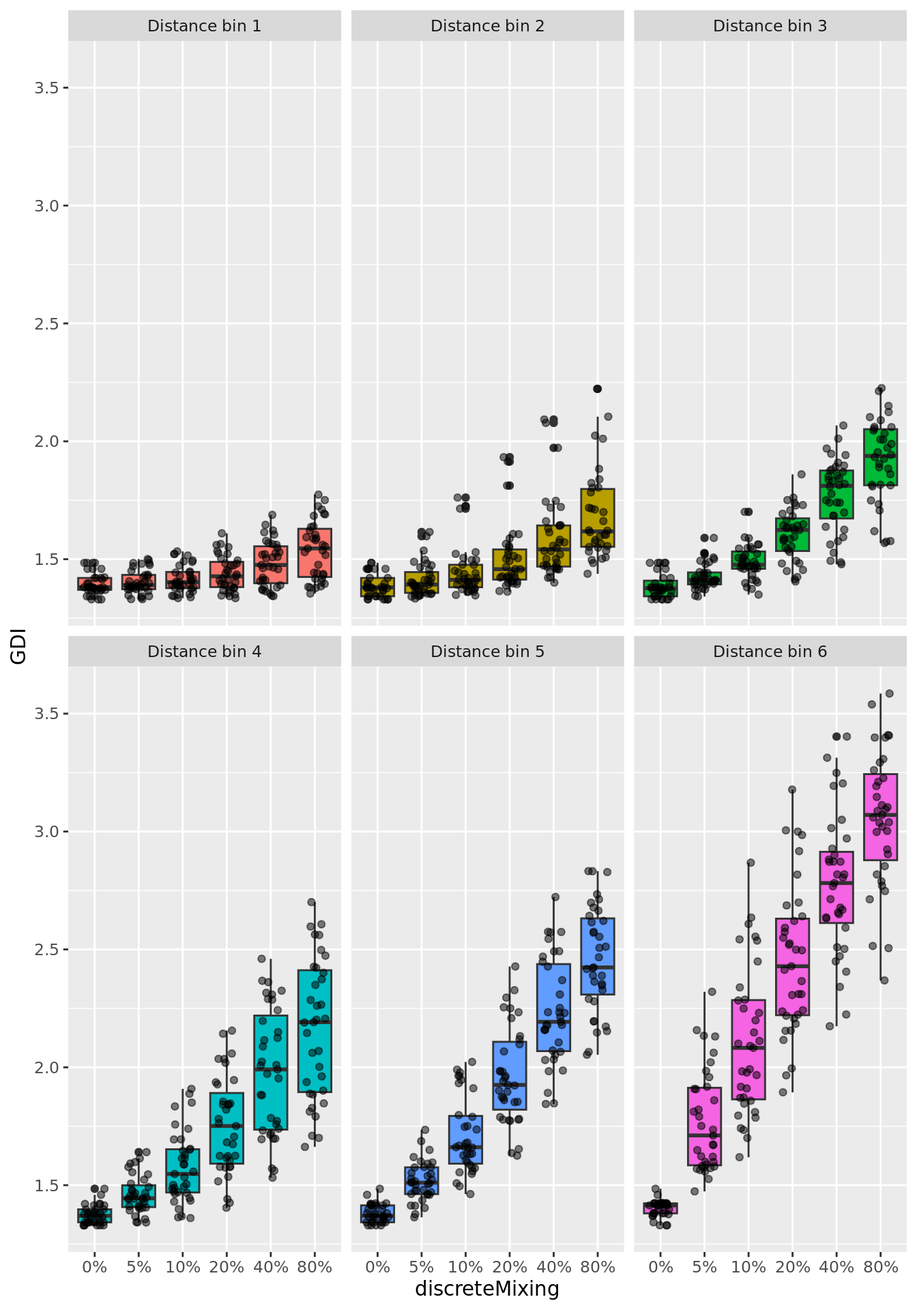
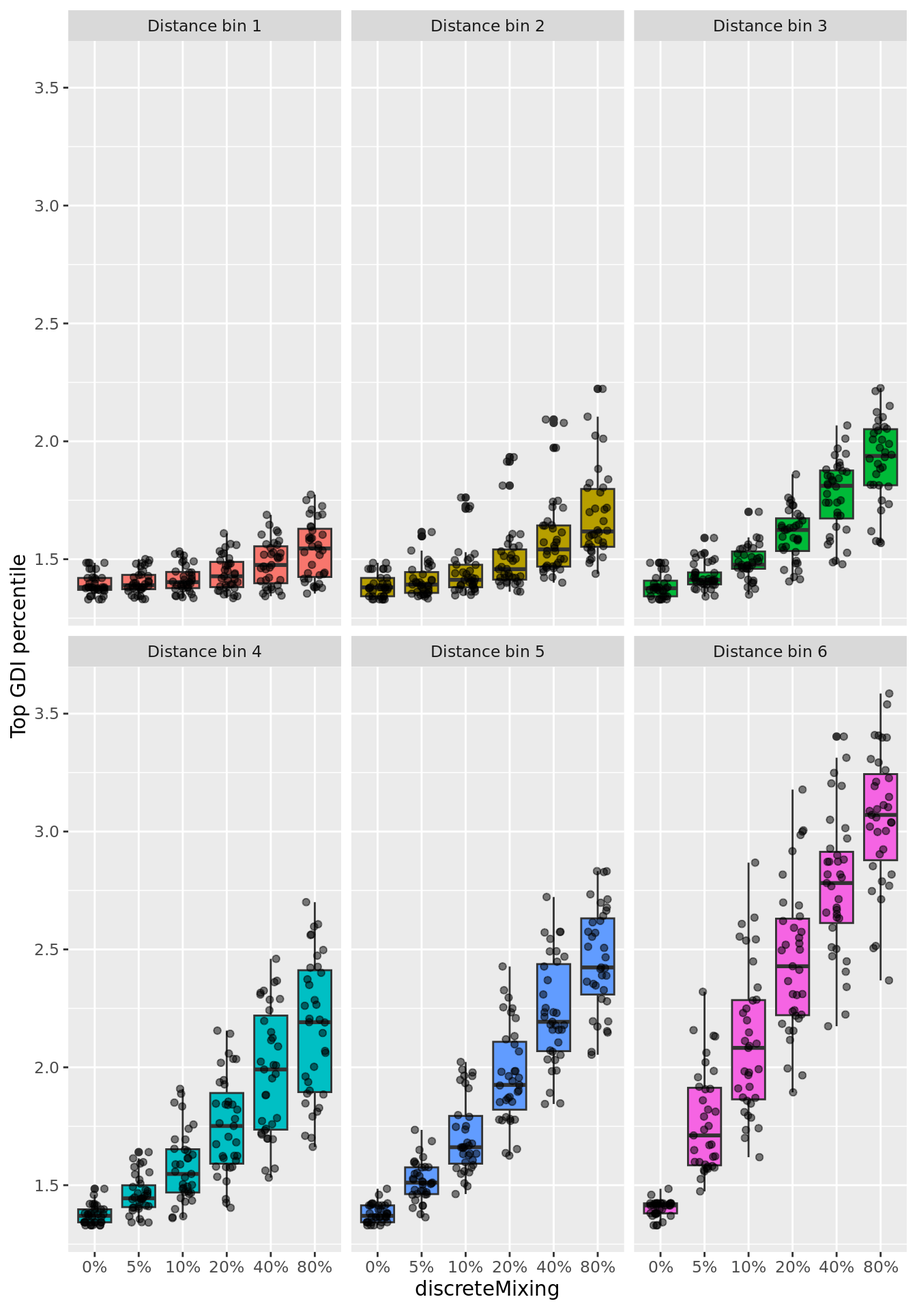
Built site for gh-pages

diff --git a/GDI_Increment_From_Mixing.html b/GDI_Increment_From_Mixing.html
@@ -7,7 +7,7 @@
 <meta name="viewport" content="width=device-width, initial-scale=1.0, user-scalable=yes">
 
 <meta name="author" content="Marco Fantozzi">
-<meta name="dcterms.date" content="2024-01-24">
+<meta name="dcterms.date" content="2024-03-22">
 
 <title>COTAN Datasets analysis - GDI Increment From Mixing</title>
 <style>
@@ -470,7 +470,7 @@ pre > code.sourceCode > span > a:first-child::before { text-decoration: underlin
     <div>
     <div class="quarto-title-meta-heading">Published</div>
     <div class="quarto-title-meta-contents">
-      <p class="date">January 24, 2024</p>
+      <p class="date">March 22, 2024</p>
     </div>
   </div>
   
@@ -540,10 +540,11 @@ pre > code.sourceCode > span > a:first-child::before { text-decoration: underlin
 <span id="cb5-7"><a href="#cb5-7" aria-hidden="true" tabindex="-1"></a>D2IPlot <span class="ot">&lt;-</span> <span class="fu">ggplot</span>(<span class="fu">cbind</span>(resMix40, distDF),</span>
 <span id="cb5-8"><a href="#cb5-8" aria-hidden="true" tabindex="-1"></a>                  <span class="fu">aes</span>(<span class="at">x=</span>Distance, <span class="at">y=</span>GDIIncrement)) <span class="sc">+</span></span>
 <span id="cb5-9"><a href="#cb5-9" aria-hidden="true" tabindex="-1"></a>             <span class="fu">geom_point</span>() <span class="sc">+</span></span>
-<span id="cb5-10"><a href="#cb5-10" aria-hidden="true" tabindex="-1"></a>             <span class="fu">geom_smooth</span>(<span class="at">method=</span>lm, <span class="at">formula =</span> y <span class="sc">~</span> x) </span>
-<span id="cb5-11"><a href="#cb5-11" aria-hidden="true" tabindex="-1"></a>           <span class="co"># +  xlim(0, 1.5) + ylim(0, 1.5) + coord_fixed()</span></span>
-<span id="cb5-12"><a href="#cb5-12" aria-hidden="true" tabindex="-1"></a></span>
-<span id="cb5-13"><a href="#cb5-13" aria-hidden="true" tabindex="-1"></a><span class="fu">plot</span>(D2IPlot)</span></code><button title="Copy to Clipboard" class="code-copy-button"><i class="bi"></i></button></pre></div>
+<span id="cb5-10"><a href="#cb5-10" aria-hidden="true" tabindex="-1"></a>             <span class="fu">geom_smooth</span>(<span class="at">method=</span>lm, <span class="at">formula =</span> y <span class="sc">~</span> x)<span class="sc">+</span></span>
+<span id="cb5-11"><a href="#cb5-11" aria-hidden="true" tabindex="-1"></a>             <span class="fu">ylab</span>(<span class="st">"Top GDI percentile Increment"</span>) </span>
+<span id="cb5-12"><a href="#cb5-12" aria-hidden="true" tabindex="-1"></a>           <span class="co"># +  xlim(0, 1.5) + ylim(0, 1.5) + coord_fixed()</span></span>
+<span id="cb5-13"><a href="#cb5-13" aria-hidden="true" tabindex="-1"></a></span>
+<span id="cb5-14"><a href="#cb5-14" aria-hidden="true" tabindex="-1"></a><span class="fu">plot</span>(D2IPlot)</span></code><button title="Copy to Clipboard" class="code-copy-button"><i class="bi"></i></button></pre></div>
 <div class="cell-output-display">
 <p><img src="GDI_Increment_From_Mixing_files/figure-html/unnamed-chunk-4-1.png" class="img-fluid" width="672"></p>
 </div>
@@ -578,17 +579,19 @@ pre > code.sourceCode > span > a:first-child::before { text-decoration: underlin
 <div class="sourceCode cell-code" id="cb10"><pre class="sourceCode r code-with-copy"><code class="sourceCode r"><span id="cb10-1"><a href="#cb10-1" aria-hidden="true" tabindex="-1"></a>IScPlot <span class="ot">&lt;-</span> <span class="fu">ggplot</span>(allRes, <span class="fu">aes</span>(<span class="at">x=</span>MixingFraction, <span class="at">y=</span>GDIIncrement, <span class="at">color=</span>Distance,)) <span class="sc">+</span></span>
 <span id="cb10-2"><a href="#cb10-2" aria-hidden="true" tabindex="-1"></a>  <span class="fu">geom_point</span>() <span class="sc">+</span></span>
 <span id="cb10-3"><a href="#cb10-3" aria-hidden="true" tabindex="-1"></a>  <span class="fu">scale_color_continuous</span>(<span class="at">type =</span> <span class="st">"viridis"</span>) <span class="sc">+</span></span>
-<span id="cb10-4"><a href="#cb10-4" aria-hidden="true" tabindex="-1"></a>  <span class="fu">scale_x_log10</span>()</span>
-<span id="cb10-5"><a href="#cb10-5" aria-hidden="true" tabindex="-1"></a></span>
-<span id="cb10-6"><a href="#cb10-6" aria-hidden="true" tabindex="-1"></a><span class="fu">plot</span>(IScPlot)</span></code><button title="Copy to Clipboard" class="code-copy-button"><i class="bi"></i></button></pre></div>
+<span id="cb10-4"><a href="#cb10-4" aria-hidden="true" tabindex="-1"></a>  <span class="fu">scale_x_log10</span>()<span class="sc">+</span></span>
+<span id="cb10-5"><a href="#cb10-5" aria-hidden="true" tabindex="-1"></a>             <span class="fu">ylab</span>(<span class="st">"Top GDI percentile Increment"</span>) </span>
+<span id="cb10-6"><a href="#cb10-6" aria-hidden="true" tabindex="-1"></a></span>
+<span id="cb10-7"><a href="#cb10-7" aria-hidden="true" tabindex="-1"></a><span class="fu">plot</span>(IScPlot)</span></code><button title="Copy to Clipboard" class="code-copy-button"><i class="bi"></i></button></pre></div>
 <div class="cell-output-display">
 <p><img src="GDI_Increment_From_Mixing_files/figure-html/unnamed-chunk-7-1.png" class="img-fluid" width="672"></p>
 </div>
 <div class="sourceCode cell-code" id="cb11"><pre class="sourceCode r code-with-copy"><code class="sourceCode r"><span id="cb11-1"><a href="#cb11-1" aria-hidden="true" tabindex="-1"></a>GScPlot <span class="ot">&lt;-</span> <span class="fu">ggplot</span>(allResWithBase, <span class="fu">aes</span>(<span class="at">x=</span>MixingFraction, <span class="at">y=</span>GDI, <span class="at">color=</span>Distance,)) <span class="sc">+</span></span>
 <span id="cb11-2"><a href="#cb11-2" aria-hidden="true" tabindex="-1"></a>  <span class="fu">geom_point</span>() <span class="sc">+</span></span>
-<span id="cb11-3"><a href="#cb11-3" aria-hidden="true" tabindex="-1"></a>  <span class="fu">scale_color_continuous</span>(<span class="at">type =</span> <span class="st">"viridis"</span>)</span>
-<span id="cb11-4"><a href="#cb11-4" aria-hidden="true" tabindex="-1"></a></span>
-<span id="cb11-5"><a href="#cb11-5" aria-hidden="true" tabindex="-1"></a><span class="fu">plot</span>(GScPlot)</span></code><button title="Copy to Clipboard" class="code-copy-button"><i class="bi"></i></button></pre></div>
+<span id="cb11-3"><a href="#cb11-3" aria-hidden="true" tabindex="-1"></a>  <span class="fu">scale_color_continuous</span>(<span class="at">type =</span> <span class="st">"viridis"</span>)<span class="sc">+</span></span>
+<span id="cb11-4"><a href="#cb11-4" aria-hidden="true" tabindex="-1"></a>             <span class="fu">ylab</span>(<span class="st">"Top GDI percentile"</span>) </span>
+<span id="cb11-5"><a href="#cb11-5" aria-hidden="true" tabindex="-1"></a></span>
+<span id="cb11-6"><a href="#cb11-6" aria-hidden="true" tabindex="-1"></a><span class="fu">plot</span>(GScPlot)</span></code><button title="Copy to Clipboard" class="code-copy-button"><i class="bi"></i></button></pre></div>
 <div class="cell-output-display">
 <p><img src="GDI_Increment_From_Mixing_files/figure-html/unnamed-chunk-7-2.png" class="img-fluid" width="672"></p>
 </div>
@@ -618,9 +621,10 @@ pre > code.sourceCode > span > a:first-child::before { text-decoration: underlin
 <span id="cb13-11"><a href="#cb13-11" aria-hidden="true" tabindex="-1"></a>  <span class="fu">geom_path</span>(<span class="fu">aes</span>(<span class="at">group =</span> ClusterPair)) <span class="sc">+</span></span>
 <span id="cb13-12"><a href="#cb13-12" aria-hidden="true" tabindex="-1"></a>  <span class="fu">theme</span>(<span class="at">legend.position =</span> <span class="st">"none"</span>) <span class="sc">+</span></span>
 <span id="cb13-13"><a href="#cb13-13" aria-hidden="true" tabindex="-1"></a>  <span class="co">#scale_x_log10() + </span></span>
-<span id="cb13-14"><a href="#cb13-14" aria-hidden="true" tabindex="-1"></a>  <span class="fu">scale_colour_stepsn</span>(<span class="at">colours =</span> <span class="fu">hcl.colors</span>(<span class="dv">6</span>, <span class="at">palette =</span> <span class="st">"Dark 2"</span>)[<span class="dv">6</span><span class="sc">:</span><span class="dv">1</span>])</span>
-<span id="cb13-15"><a href="#cb13-15" aria-hidden="true" tabindex="-1"></a></span>
-<span id="cb13-16"><a href="#cb13-16" aria-hidden="true" tabindex="-1"></a><span class="fu">plot</span>(ILinesPLot)</span></code><button title="Copy to Clipboard" class="code-copy-button"><i class="bi"></i></button></pre></div>
+<span id="cb13-14"><a href="#cb13-14" aria-hidden="true" tabindex="-1"></a>  <span class="fu">scale_colour_stepsn</span>(<span class="at">colours =</span> <span class="fu">hcl.colors</span>(<span class="dv">6</span>, <span class="at">palette =</span> <span class="st">"Dark 2"</span>)[<span class="dv">6</span><span class="sc">:</span><span class="dv">1</span>])<span class="sc">+</span></span>
+<span id="cb13-15"><a href="#cb13-15" aria-hidden="true" tabindex="-1"></a>             <span class="fu">ylab</span>(<span class="st">"Top GDI percentile Increment"</span>) </span>
+<span id="cb13-16"><a href="#cb13-16" aria-hidden="true" tabindex="-1"></a></span>
+<span id="cb13-17"><a href="#cb13-17" aria-hidden="true" tabindex="-1"></a><span class="fu">plot</span>(ILinesPLot)</span></code><button title="Copy to Clipboard" class="code-copy-button"><i class="bi"></i></button></pre></div>
 <div class="cell-output-display">
 <p><img src="GDI_Increment_From_Mixing_files/figure-html/unnamed-chunk-9-1.png" class="img-fluid" width="672"></p>
 </div>
@@ -630,12 +634,13 @@ pre > code.sourceCode > span > a:first-child::before { text-decoration: underlin
 <span id="cb14-4"><a href="#cb14-4" aria-hidden="true" tabindex="-1"></a>  <span class="fu">geom_path</span>(<span class="fu">aes</span>(<span class="at">group =</span> ClusterPair)) <span class="sc">+</span></span>
 <span id="cb14-5"><a href="#cb14-5" aria-hidden="true" tabindex="-1"></a>  <span class="fu">theme</span>(<span class="at">legend.position =</span> <span class="st">"none"</span>) <span class="sc">+</span></span>
 <span id="cb14-6"><a href="#cb14-6" aria-hidden="true" tabindex="-1"></a>  <span class="co">#scale_x_log10() + </span></span>
-<span id="cb14-7"><a href="#cb14-7" aria-hidden="true" tabindex="-1"></a>  <span class="fu">scale_colour_stepsn</span>(<span class="at">colours =</span> <span class="fu">hcl.colors</span>(<span class="dv">6</span>, <span class="at">palette =</span> <span class="st">"Dark 2"</span>)[<span class="dv">6</span><span class="sc">:</span><span class="dv">1</span>]) </span>
-<span id="cb14-8"><a href="#cb14-8" aria-hidden="true" tabindex="-1"></a><span class="co">#  geom_line(data = data.frame(cbind(MixingFraction = c(0,0.8), GDI = c(1.4,1.4))),</span></span>
-<span id="cb14-9"><a href="#cb14-9" aria-hidden="true" tabindex="-1"></a><span class="co">#            aes(x = MixingFraction, y = GDI))</span></span>
-<span id="cb14-10"><a href="#cb14-10" aria-hidden="true" tabindex="-1"></a></span>
+<span id="cb14-7"><a href="#cb14-7" aria-hidden="true" tabindex="-1"></a>  <span class="fu">scale_colour_stepsn</span>(<span class="at">colours =</span> <span class="fu">hcl.colors</span>(<span class="dv">6</span>, <span class="at">palette =</span> <span class="st">"Dark 2"</span>)[<span class="dv">6</span><span class="sc">:</span><span class="dv">1</span>]) <span class="sc">+</span></span>
+<span id="cb14-8"><a href="#cb14-8" aria-hidden="true" tabindex="-1"></a>             <span class="fu">ylab</span>(<span class="st">"Top GDI percentile"</span>) </span>
+<span id="cb14-9"><a href="#cb14-9" aria-hidden="true" tabindex="-1"></a><span class="co">#  geom_line(data = data.frame(cbind(MixingFraction = c(0,0.8), GDI = c(1.4,1.4))),</span></span>
+<span id="cb14-10"><a href="#cb14-10" aria-hidden="true" tabindex="-1"></a><span class="co">#            aes(x = MixingFraction, y = GDI))</span></span>
 <span id="cb14-11"><a href="#cb14-11" aria-hidden="true" tabindex="-1"></a></span>
-<span id="cb14-12"><a href="#cb14-12" aria-hidden="true" tabindex="-1"></a><span class="fu">plot</span>(GLinesPLot)</span></code><button title="Copy to Clipboard" class="code-copy-button"><i class="bi"></i></button></pre></div>
+<span id="cb14-12"><a href="#cb14-12" aria-hidden="true" tabindex="-1"></a></span>
+<span id="cb14-13"><a href="#cb14-13" aria-hidden="true" tabindex="-1"></a><span class="fu">plot</span>(GLinesPLot)</span></code><button title="Copy to Clipboard" class="code-copy-button"><i class="bi"></i></button></pre></div>
 <div class="cell-output-display">
 <p><img src="GDI_Increment_From_Mixing_files/figure-html/unnamed-chunk-9-2.png" class="img-fluid" width="672"></p>
 </div>
@@ -667,10 +672,11 @@ pre > code.sourceCode > span > a:first-child::before { text-decoration: underlin
 <span id="cb15-24"><a href="#cb15-24" aria-hidden="true" tabindex="-1"></a>  <span class="fu">geom_jitter</span>(<span class="at">width=</span><span class="fl">0.25</span>, <span class="at">alpha=</span><span class="fl">0.5</span>) <span class="sc">+</span></span>
 <span id="cb15-25"><a href="#cb15-25" aria-hidden="true" tabindex="-1"></a>  <span class="fu">scale_colour_stepsn</span>(<span class="at">colours =</span> <span class="fu">hcl.colors</span>(<span class="dv">6</span>, <span class="at">palette =</span> <span class="st">"Dark 2"</span>)[<span class="dv">6</span><span class="sc">:</span><span class="dv">1</span>]) <span class="sc">+</span></span>
 <span id="cb15-26"><a href="#cb15-26" aria-hidden="true" tabindex="-1"></a>  <span class="fu">facet_wrap</span>(. <span class="sc">~</span> Group, <span class="at">ncol =</span> <span class="dv">3</span>)<span class="sc">+</span></span>
-<span id="cb15-27"><a href="#cb15-27" aria-hidden="true" tabindex="-1"></a>  <span class="fu">theme</span>(<span class="at">legend.position =</span> <span class="st">"none"</span>) </span>
-<span id="cb15-28"><a href="#cb15-28" aria-hidden="true" tabindex="-1"></a></span>
+<span id="cb15-27"><a href="#cb15-27" aria-hidden="true" tabindex="-1"></a>  <span class="fu">theme</span>(<span class="at">legend.position =</span> <span class="st">"none"</span>) <span class="sc">+</span></span>
+<span id="cb15-28"><a href="#cb15-28" aria-hidden="true" tabindex="-1"></a>             <span class="fu">ylab</span>(<span class="st">"Top GDI percentile Increment"</span>) </span>
 <span id="cb15-29"><a href="#cb15-29" aria-hidden="true" tabindex="-1"></a></span>
-<span id="cb15-30"><a href="#cb15-30" aria-hidden="true" tabindex="-1"></a><span class="fu">plot</span>(IBoxPlot)</span></code><button title="Copy to Clipboard" class="code-copy-button"><i class="bi"></i></button></pre></div>
+<span id="cb15-30"><a href="#cb15-30" aria-hidden="true" tabindex="-1"></a></span>
+<span id="cb15-31"><a href="#cb15-31" aria-hidden="true" tabindex="-1"></a><span class="fu">plot</span>(IBoxPlot)</span></code><button title="Copy to Clipboard" class="code-copy-button"><i class="bi"></i></button></pre></div>
 <div class="cell-output-display">
 <p><img src="GDI_Increment_From_Mixing_files/figure-html/unnamed-chunk-10-1.png" class="img-fluid" width="672"></p>
 </div>
@@ -688,9 +694,10 @@ pre > code.sourceCode > span > a:first-child::before { text-decoration: underlin
 <span id="cb16-12"><a href="#cb16-12" aria-hidden="true" tabindex="-1"></a>  <span class="fu">geom_jitter</span>(<span class="at">width=</span><span class="fl">0.25</span>, <span class="at">alpha=</span><span class="fl">0.5</span>) <span class="sc">+</span></span>
 <span id="cb16-13"><a href="#cb16-13" aria-hidden="true" tabindex="-1"></a>  <span class="fu">scale_colour_stepsn</span>(<span class="at">colours =</span> <span class="fu">hcl.colors</span>(<span class="dv">6</span>, <span class="at">palette =</span> <span class="st">"Dark 2"</span>)[<span class="dv">6</span><span class="sc">:</span><span class="dv">1</span>]) <span class="sc">+</span></span>
 <span id="cb16-14"><a href="#cb16-14" aria-hidden="true" tabindex="-1"></a>  <span class="fu">facet_wrap</span>(. <span class="sc">~</span> Group, <span class="at">ncol =</span> <span class="dv">3</span>)<span class="sc">+</span></span>
-<span id="cb16-15"><a href="#cb16-15" aria-hidden="true" tabindex="-1"></a>  <span class="fu">theme</span>(<span class="at">legend.position =</span> <span class="st">"none"</span>) </span>
-<span id="cb16-16"><a href="#cb16-16" aria-hidden="true" tabindex="-1"></a></span>
-<span id="cb16-17"><a href="#cb16-17" aria-hidden="true" tabindex="-1"></a><span class="fu">plot</span>(GBoxPlot)</span></code><button title="Copy to Clipboard" class="code-copy-button"><i class="bi"></i></button></pre></div>
+<span id="cb16-15"><a href="#cb16-15" aria-hidden="true" tabindex="-1"></a>  <span class="fu">theme</span>(<span class="at">legend.position =</span> <span class="st">"none"</span>) <span class="sc">+</span></span>
+<span id="cb16-16"><a href="#cb16-16" aria-hidden="true" tabindex="-1"></a>             <span class="fu">ylab</span>(<span class="st">"Top GDI percentile"</span>) </span>
+<span id="cb16-17"><a href="#cb16-17" aria-hidden="true" tabindex="-1"></a></span>
+<span id="cb16-18"><a href="#cb16-18" aria-hidden="true" tabindex="-1"></a><span class="fu">plot</span>(GBoxPlot)</span></code><button title="Copy to Clipboard" class="code-copy-button"><i class="bi"></i></button></pre></div>
 <div class="cell-output-display">
 <p><img src="GDI_Increment_From_Mixing_files/figure-html/unnamed-chunk-10-2.png" class="img-fluid" width="672"></p>
 </div>
@@ -707,10 +714,11 @@ pre > code.sourceCode > span > a:first-child::before { text-decoration: underlin
 <span id="cb17-3"><a href="#cb17-3" aria-hidden="true" tabindex="-1"></a>  <span class="fu">geom_point</span>() <span class="sc">+</span></span>
 <span id="cb17-4"><a href="#cb17-4" aria-hidden="true" tabindex="-1"></a>  <span class="fu">geom_smooth</span>(<span class="at">method=</span>lm, <span class="at">formula =</span> y <span class="sc">~</span> x <span class="sc">+</span> <span class="dv">0</span>) <span class="sc">+</span></span>
 <span id="cb17-5"><a href="#cb17-5" aria-hidden="true" tabindex="-1"></a>  <span class="fu">coord_fixed</span>() <span class="sc">+</span></span>
-<span id="cb17-6"><a href="#cb17-6" aria-hidden="true" tabindex="-1"></a>  <span class="fu">xlim</span>(<span class="dv">0</span>, <span class="fl">1.5</span>) <span class="sc">+</span> <span class="fu">ylim</span>(<span class="dv">0</span>, <span class="fl">1.5</span>)</span>
-<span id="cb17-7"><a href="#cb17-7" aria-hidden="true" tabindex="-1"></a>  <span class="co">#scale_x_log10() + scale_y_log10() </span></span>
-<span id="cb17-8"><a href="#cb17-8" aria-hidden="true" tabindex="-1"></a></span>
-<span id="cb17-9"><a href="#cb17-9" aria-hidden="true" tabindex="-1"></a><span class="fu">plot</span>(pg)</span></code><button title="Copy to Clipboard" class="code-copy-button"><i class="bi"></i></button></pre></div>
+<span id="cb17-6"><a href="#cb17-6" aria-hidden="true" tabindex="-1"></a>  <span class="fu">xlim</span>(<span class="dv">0</span>, <span class="fl">1.5</span>) <span class="sc">+</span> <span class="fu">ylim</span>(<span class="dv">0</span>, <span class="fl">1.5</span>)<span class="sc">+</span></span>
+<span id="cb17-7"><a href="#cb17-7" aria-hidden="true" tabindex="-1"></a>             <span class="fu">ylab</span>(<span class="st">"Top GDI percentile Increment"</span>) </span>
+<span id="cb17-8"><a href="#cb17-8" aria-hidden="true" tabindex="-1"></a>  <span class="co">#scale_x_log10() + scale_y_log10() </span></span>
+<span id="cb17-9"><a href="#cb17-9" aria-hidden="true" tabindex="-1"></a></span>
+<span id="cb17-10"><a href="#cb17-10" aria-hidden="true" tabindex="-1"></a><span class="fu">plot</span>(pg)</span></code><button title="Copy to Clipboard" class="code-copy-button"><i class="bi"></i></button></pre></div>
 <div class="cell-output-display">
 <p><img src="GDI_Increment_From_Mixing_files/figure-html/unnamed-chunk-12-1.png" class="img-fluid" width="672"></p>
 </div>
@@ -742,19 +750,19 @@ attached base packages:
 other attached packages:
  [1] lubridate_1.9.2    forcats_1.0.0      stringr_1.5.0      dplyr_1.1.2       
  [5] purrr_1.0.1        readr_2.1.4        tibble_3.2.1       tidyverse_2.0.0   
- [9] tidyr_1.3.0        parallelDist_0.2.6 data.table_1.14.8  zeallot_0.1.0     
-[13] ggplot2_3.4.2      scales_1.3.0       rlang_1.1.1        assertthat_0.2.1  
+ [9] tidyr_1.3.0        parallelDist_0.2.6 data.table_1.15.0  zeallot_0.1.0     
+[13] ggplot2_3.5.0      scales_1.3.0       rlang_1.1.1        assertthat_0.2.1  
 
 loaded via a namespace (and not attached):
  [1] utf8_1.2.3         generics_0.1.3     lattice_0.22-5     stringi_1.8.1     
  [5] hms_1.1.3          digest_0.6.33      magrittr_2.0.3     evaluate_0.21     
- [9] grid_4.3.2         timechange_0.2.0   fastmap_1.1.1      Matrix_1.6-3      
+ [9] grid_4.3.2         timechange_0.3.0   fastmap_1.1.1      Matrix_1.6-3      
 [13] jsonlite_1.8.7     mgcv_1.9-1         fansi_1.0.4        viridisLite_0.4.2 
-[17] cli_3.6.1          munsell_0.5.0      splines_4.3.2      withr_2.5.0       
+[17] cli_3.6.1          munsell_0.5.0      splines_4.3.2      withr_3.0.0       
 [21] yaml_2.3.7         tools_4.3.2        tzdb_0.4.0         colorspace_2.1-0  
 [25] vctrs_0.6.3        R6_2.5.1           lifecycle_1.0.3    htmlwidgets_1.6.2 
 [29] pkgconfig_2.0.3    RcppParallel_5.1.7 pillar_1.9.0       gtable_0.3.3      
-[33] glue_1.6.2         Rcpp_1.0.11        xfun_0.39          tidyselect_1.2.0  
+[33] glue_1.7.0         Rcpp_1.0.11        xfun_0.39          tidyselect_1.2.0  
 [37] rstudioapi_0.15.0  knitr_1.43         farver_2.1.1       htmltools_0.5.7   
 [41] nlme_3.1-163       labeling_0.4.2     rmarkdown_2.24     compiler_4.3.2    </code></pre>
 </div>

diff --git a/generalCoexAssess.html b/generalCoexAssess.html
@@ -484,19 +484,21 @@ pre > code.sourceCode > span > a:first-child::before { text-decoration: underlin
 <span id="cb1-14"><a href="#cb1-14" aria-hidden="true" tabindex="-1"></a>colors.methods <span class="ot">&lt;-</span> <span class="fu">c</span>(<span class="st">"#8856A7"</span>,<span class="st">"#ed5537"</span>,<span class="st">"#95ba8f"</span>,<span class="st">"#EDF8FB"</span>,<span class="st">"#B3CDE3"</span> )</span></code><button title="Copy to Clipboard" class="code-copy-button"><i class="bi"></i></button></pre></div>
 </div>
 <div class="cell">
-<div class="sourceCode cell-code" id="cb2"><pre class="sourceCode r code-with-copy"><code class="sourceCode r"><span id="cb2-1"><a href="#cb2-1" aria-hidden="true" tabindex="-1"></a>genesList <span class="ot">&lt;-</span> <span class="fu">list</span>(</span>
-<span id="cb2-2"><a href="#cb2-2" aria-hidden="true" tabindex="-1"></a>  <span class="st">"NPGs"</span><span class="ot">=</span> </span>
-<span id="cb2-3"><a href="#cb2-3" aria-hidden="true" tabindex="-1"></a>    <span class="fu">c</span>(<span class="st">"Nes"</span>, <span class="st">"Vim"</span>, <span class="st">"Sox2"</span>, <span class="st">"Sox1"</span>, <span class="st">"Notch1"</span>, <span class="st">"Hes1"</span>, <span class="st">"Hes5"</span>, <span class="st">"Pax6"</span>),</span>
-<span id="cb2-4"><a href="#cb2-4" aria-hidden="true" tabindex="-1"></a>  <span class="st">"PNGs"</span><span class="ot">=</span> </span>
-<span id="cb2-5"><a href="#cb2-5" aria-hidden="true" tabindex="-1"></a>    <span class="fu">c</span>(<span class="st">"Map2"</span>, <span class="st">"Tubb3"</span>, <span class="st">"Neurod1"</span>, <span class="st">"Nefm"</span>, <span class="st">"Nefl"</span>, <span class="st">"Dcx"</span>, <span class="st">"Tbr1"</span>),</span>
-<span id="cb2-6"><a href="#cb2-6" aria-hidden="true" tabindex="-1"></a>  <span class="st">"hk"</span><span class="ot">=</span> </span>
-<span id="cb2-7"><a href="#cb2-7" aria-hidden="true" tabindex="-1"></a>    <span class="fu">c</span>(<span class="st">"Calm1"</span>, <span class="st">"Cox6b1"</span>, <span class="st">"Ppia"</span>, <span class="st">"Rpl18"</span>, <span class="st">"Cox7c"</span>, <span class="st">"Erh"</span>, <span class="st">"H3f3a"</span>,</span>
-<span id="cb2-8"><a href="#cb2-8" aria-hidden="true" tabindex="-1"></a>      <span class="st">"Taf1"</span>, <span class="st">"Taf2"</span>, <span class="st">"Gapdh"</span>, <span class="st">"Actb"</span>, <span class="st">"Golph3"</span>, <span class="st">"Zfr"</span>, <span class="st">"Sub1"</span>,</span>
-<span id="cb2-9"><a href="#cb2-9" aria-hidden="true" tabindex="-1"></a>      <span class="st">"Tars"</span>, <span class="st">"Amacr"</span>),</span>
-<span id="cb2-10"><a href="#cb2-10" aria-hidden="true" tabindex="-1"></a>  <span class="st">"layers"</span> <span class="ot">=</span> </span>
-<span id="cb2-11"><a href="#cb2-11" aria-hidden="true" tabindex="-1"></a>    <span class="fu">c</span>(<span class="st">"Reln"</span>,<span class="st">"Lhx5"</span>,<span class="st">"Cux1"</span>,<span class="st">"Satb2"</span>,<span class="st">"Tle1"</span>,<span class="st">"Mef2c"</span>,<span class="st">"Rorb"</span>,<span class="st">"Sox5"</span>,<span class="st">"Bcl11b"</span>,<span class="st">"Fezf2"</span>,<span class="st">"Foxp2"</span>,<span class="st">"Ntf3"</span>,<span class="st">"Rasgrf2"</span>,<span class="st">"Pvrl3"</span>, <span class="st">"Cux2"</span>,<span class="st">"Slc17a6"</span>, <span class="st">"Sema3c"</span>,<span class="st">"Thsd7a"</span>, <span class="st">"Sulf2"</span>, <span class="st">"Kcnk2"</span>,<span class="st">"Grik3"</span>, <span class="st">"Etv1"</span>, <span class="st">"Tle4"</span>, <span class="st">"Tmem200a"</span>, <span class="st">"Glra2"</span>, <span class="st">"Etv1"</span>,<span class="st">"Htr1f"</span>, <span class="st">"Sulf1"</span>,<span class="st">"Rxfp1"</span>, <span class="st">"Syt6"</span>) </span>
-<span id="cb2-12"><a href="#cb2-12" aria-hidden="true" tabindex="-1"></a>  <span class="co"># From https://www.science.org/doi/10.1126/science.aam8999</span></span>
-<span id="cb2-13"><a href="#cb2-13" aria-hidden="true" tabindex="-1"></a>)</span></code><button title="Copy to Clipboard" class="code-copy-button"><i class="bi"></i></button></pre></div>
+<div class="sourceCode cell-code" id="cb2"><pre class="sourceCode r code-with-copy"><code class="sourceCode r"><span id="cb2-1"><a href="#cb2-1" aria-hidden="true" tabindex="-1"></a>layer.genes <span class="ot">&lt;-</span> <span class="fu">read.csv</span>(<span class="st">"CoexData/some_layer_maerkers.csv"</span>, <span class="at">header =</span> T,<span class="at">row.names =</span> <span class="dv">1</span>)</span>
+<span id="cb2-2"><a href="#cb2-2" aria-hidden="true" tabindex="-1"></a></span>
+<span id="cb2-3"><a href="#cb2-3" aria-hidden="true" tabindex="-1"></a>genesList <span class="ot">&lt;-</span> <span class="fu">list</span>(</span>
+<span id="cb2-4"><a href="#cb2-4" aria-hidden="true" tabindex="-1"></a>  <span class="st">"NPGs"</span><span class="ot">=</span> </span>
+<span id="cb2-5"><a href="#cb2-5" aria-hidden="true" tabindex="-1"></a>    <span class="fu">c</span>(<span class="st">"Nes"</span>, <span class="st">"Vim"</span>, <span class="st">"Sox2"</span>, <span class="st">"Sox1"</span>, <span class="st">"Notch1"</span>, <span class="st">"Hes1"</span>, <span class="st">"Hes5"</span>, <span class="st">"Pax6"</span>),</span>
+<span id="cb2-6"><a href="#cb2-6" aria-hidden="true" tabindex="-1"></a>  <span class="st">"PNGs"</span><span class="ot">=</span> </span>
+<span id="cb2-7"><a href="#cb2-7" aria-hidden="true" tabindex="-1"></a>    <span class="fu">c</span>(<span class="st">"Map2"</span>, <span class="st">"Tubb3"</span>, <span class="st">"Neurod1"</span>, <span class="st">"Nefm"</span>, <span class="st">"Nefl"</span>, <span class="st">"Dcx"</span>, <span class="st">"Tbr1"</span>),</span>
+<span id="cb2-8"><a href="#cb2-8" aria-hidden="true" tabindex="-1"></a>  <span class="st">"hk"</span><span class="ot">=</span> </span>
+<span id="cb2-9"><a href="#cb2-9" aria-hidden="true" tabindex="-1"></a>    <span class="fu">c</span>(<span class="st">"Calm1"</span>, <span class="st">"Cox6b1"</span>, <span class="st">"Ppia"</span>, <span class="st">"Rpl18"</span>, <span class="st">"Cox7c"</span>, <span class="st">"Erh"</span>, <span class="st">"H3f3a"</span>,</span>
+<span id="cb2-10"><a href="#cb2-10" aria-hidden="true" tabindex="-1"></a>      <span class="st">"Taf1"</span>, <span class="st">"Taf2"</span>, <span class="st">"Gapdh"</span>, <span class="st">"Actb"</span>, <span class="st">"Golph3"</span>, <span class="st">"Zfr"</span>, <span class="st">"Sub1"</span>,</span>
+<span id="cb2-11"><a href="#cb2-11" aria-hidden="true" tabindex="-1"></a>      <span class="st">"Tars"</span>, <span class="st">"Amacr"</span>),</span>
+<span id="cb2-12"><a href="#cb2-12" aria-hidden="true" tabindex="-1"></a>  <span class="st">"layers"</span> <span class="ot">=</span> <span class="fu">unique</span>(<span class="fu">unlist</span>(<span class="fu">str_split</span>(layer.genes<span class="sc">$</span>supertype.markers.combo,<span class="at">pattern =</span> <span class="st">","</span>))) </span>
+<span id="cb2-13"><a href="#cb2-13" aria-hidden="true" tabindex="-1"></a>    <span class="co">#c("Reln","Lhx5","Cux1","Satb2","Tle1","Mef2c","Rorb","Sox5","Bcl11b","Fezf2","Foxp2","Ntf3","Rasgrf2","Pvrl3", "Cux2","Slc17a6", "Sema3c","Thsd7a", "Sulf2", "Kcnk2","Grik3", "Etv1", "Tle4", "Tmem200a", "Glra2", "Etv1","Htr1f", "Sulf1","Rxfp1", "Syt6") </span></span>
+<span id="cb2-14"><a href="#cb2-14" aria-hidden="true" tabindex="-1"></a>  <span class="co"># From https://www.science.org/doi/10.1126/science.aam8999</span></span>
+<span id="cb2-15"><a href="#cb2-15" aria-hidden="true" tabindex="-1"></a>)</span></code><button title="Copy to Clipboard" class="code-copy-button"><i class="bi"></i></button></pre></div>
 </div>
 <section id="coex-and-correlations" class="level2">
 <h2 class="anchored" data-anchor-id="coex-and-correlations">COEX and Correlations</h2>
@@ -719,19 +721,19 @@ pre > code.sourceCode > span > a:first-child::before { text-decoration: underlin
 <span id="cb17-4"><a href="#cb17-4" aria-hidden="true" tabindex="-1"></a>  pval <span class="ot">&lt;-</span> <span class="fu">readRDS</span>(<span class="fu">paste0</span>(<span class="st">"CoexData/"</span>,file))</span>
 <span id="cb17-5"><a href="#cb17-5" aria-hidden="true" tabindex="-1"></a>  <span class="co">#pval &lt;- as.data.frame(as.matrix(pval))</span></span>
 <span id="cb17-6"><a href="#cb17-6" aria-hidden="true" tabindex="-1"></a>  <span class="cf">if</span>(<span class="fu">str_detect</span>(file,<span class="at">pattern =</span> <span class="st">"Cotan"</span>)){</span>
-<span id="cb17-7"><a href="#cb17-7" aria-hidden="true" tabindex="-1"></a>    code <span class="ot">&lt;-</span> <span class="st">"COTAN p-values"</span></span>
+<span id="cb17-7"><a href="#cb17-7" aria-hidden="true" tabindex="-1"></a>    code <span class="ot">&lt;-</span> <span class="st">"COTAN"</span></span>
 <span id="cb17-8"><a href="#cb17-8" aria-hidden="true" tabindex="-1"></a>    <span class="cf">if</span>(<span class="fu">all</span>(<span class="fu">diag</span>(pval)) <span class="sc">==</span> <span class="dv">1</span>){</span>
 <span id="cb17-9"><a href="#cb17-9" aria-hidden="true" tabindex="-1"></a>      </span>
 <span id="cb17-10"><a href="#cb17-10" aria-hidden="true" tabindex="-1"></a>      <span class="fu">diag</span>(pval) <span class="ot">=</span> <span class="dv">0</span></span>
 <span id="cb17-11"><a href="#cb17-11" aria-hidden="true" tabindex="-1"></a>    }</span>
 <span id="cb17-12"><a href="#cb17-12" aria-hidden="true" tabindex="-1"></a>  }<span class="cf">else</span> <span class="cf">if</span>(<span class="fu">str_detect</span>(file,<span class="at">pattern =</span> <span class="st">"PValuesSCT"</span>)){</span>
-<span id="cb17-13"><a href="#cb17-13" aria-hidden="true" tabindex="-1"></a>    code <span class="ot">&lt;-</span> <span class="st">"Seurat SCT p-values"</span></span>
+<span id="cb17-13"><a href="#cb17-13" aria-hidden="true" tabindex="-1"></a>    code <span class="ot">&lt;-</span> <span class="st">"Seurat SCT"</span></span>
 <span id="cb17-14"><a href="#cb17-14" aria-hidden="true" tabindex="-1"></a>  }<span class="cf">else</span> <span class="cf">if</span>(<span class="fu">str_detect</span>(file,<span class="at">pattern =</span> <span class="st">"SeuratPValues"</span>)){</span>
-<span id="cb17-15"><a href="#cb17-15" aria-hidden="true" tabindex="-1"></a>    code <span class="ot">&lt;-</span> <span class="st">"Seurat p-values"</span></span>
+<span id="cb17-15"><a href="#cb17-15" aria-hidden="true" tabindex="-1"></a>    code <span class="ot">&lt;-</span> <span class="st">"Seurat"</span></span>
 <span id="cb17-16"><a href="#cb17-16" aria-hidden="true" tabindex="-1"></a>  }<span class="cf">else</span> <span class="cf">if</span>(<span class="fu">str_detect</span>(file,<span class="at">pattern =</span> <span class="st">"MonoclePValues"</span>)){</span>
-<span id="cb17-17"><a href="#cb17-17" aria-hidden="true" tabindex="-1"></a>    code <span class="ot">&lt;-</span> <span class="st">"Monocle p-values"</span></span>
+<span id="cb17-17"><a href="#cb17-17" aria-hidden="true" tabindex="-1"></a>    code <span class="ot">&lt;-</span> <span class="st">"Monocle"</span></span>
 <span id="cb17-18"><a href="#cb17-18" aria-hidden="true" tabindex="-1"></a>  }<span class="cf">else</span> <span class="cf">if</span>(<span class="fu">str_detect</span>(file,<span class="at">pattern =</span> <span class="st">"ScanPyPValues"</span>)){</span>
-<span id="cb17-19"><a href="#cb17-19" aria-hidden="true" tabindex="-1"></a>    code <span class="ot">&lt;-</span> <span class="st">"ScanPy p-values"</span></span>
+<span id="cb17-19"><a href="#cb17-19" aria-hidden="true" tabindex="-1"></a>    code <span class="ot">&lt;-</span> <span class="st">"ScanPy"</span></span>
 <span id="cb17-20"><a href="#cb17-20" aria-hidden="true" tabindex="-1"></a>  }</span>
 <span id="cb17-21"><a href="#cb17-21" aria-hidden="true" tabindex="-1"></a>  </span>
 <span id="cb17-22"><a href="#cb17-22" aria-hidden="true" tabindex="-1"></a>  </span>
@@ -800,13 +802,13 @@ pre > code.sourceCode > span > a:first-child::before { text-decoration: underlin
 </div>
 <div class="sourceCode cell-code" id="cb21"><pre class="sourceCode r code-with-copy"><code class="sourceCode r"><span id="cb21-1"><a href="#cb21-1" aria-hidden="true" tabindex="-1"></a><span class="fu">head</span>(table.tot)</span></code><button title="Copy to Clipboard" class="code-copy-button"><i class="bi"></i></button></pre></div>
 <div class="cell-output cell-output-stdout">
-<pre><code>  Gene1  Gene2     value         Method     GeneType         n    Y_axis
-2  Actb  Calm1 0.1154619 COTAN p-values Constitutive 0.3496081 0.6503919
-3  Actb Cox6b1 0.3563300 COTAN p-values Constitutive 0.5415454 0.4584546
-4  Actb   Ppia 0.2790691 COTAN p-values Constitutive 0.4871221 0.5128779
-5  Actb  Rpl18 0.4733509 COTAN p-values Constitutive 0.6257559 0.3742441
-6  Actb  Cox7c 0.8035390 COTAN p-values Constitutive 0.8680851 0.1319149
-7  Actb    Erh 0.6855733 COTAN p-values Constitutive 0.7746920 0.2253080</code></pre>
+<pre><code>  Gene1  Gene2     value Method     GeneType         n    Y_axis
+2  Actb  Calm1 0.1154619  COTAN Constitutive 0.3496081 0.6503919
+3  Actb Cox6b1 0.3563300  COTAN Constitutive 0.5415454 0.4584546
+4  Actb   Ppia 0.2790691  COTAN Constitutive 0.4871221 0.5128779
+5  Actb  Rpl18 0.4733509  COTAN Constitutive 0.6257559 0.3742441
+6  Actb  Cox7c 0.8035390  COTAN Constitutive 0.8680851 0.1319149
+7  Actb    Erh 0.6855733  COTAN Constitutive 0.7746920 0.2253080</code></pre>
 </div>
 </div>
 <section id="constitutive-genes" class="level3">
@@ -908,8 +910,8 @@ pre > code.sourceCode > span > a:first-child::before { text-decoration: underlin
 <span id="cb32-4"><a href="#cb32-4" aria-hidden="true" tabindex="-1"></a>    <span class="at">labels =</span> <span class="fu">trans_format</span>(<span class="st">"log10"</span>, <span class="fu">math_format</span>(<span class="dv">10</span><span class="sc">^</span>.x)),</span>
 <span id="cb32-5"><a href="#cb32-5" aria-hidden="true" tabindex="-1"></a>    <span class="at">limits =</span> <span class="fu">c</span>(<span class="fl">0.0001</span>,<span class="fl">0.05</span>)) <span class="sc">+</span> </span>
 <span id="cb32-6"><a href="#cb32-6" aria-hidden="true" tabindex="-1"></a>  <span class="fu">facet_grid</span>(. <span class="sc">~</span> GeneType ,<span class="at">scales=</span><span class="st">"free"</span>) <span class="sc">+</span></span>
-<span id="cb32-7"><a href="#cb32-7" aria-hidden="true" tabindex="-1"></a>  <span class="fu">scale_color_manual</span>(<span class="at">values =</span> colors.methods)<span class="sc">+</span></span>
-<span id="cb32-8"><a href="#cb32-8" aria-hidden="true" tabindex="-1"></a>  <span class="fu">theme_bw</span>()<span class="sc">+</span> <span class="fu">theme</span>(<span class="at">legend.position=</span><span class="st">"bottom"</span>)</span></code><button title="Copy to Clipboard" class="code-copy-button"><i class="bi"></i></button></pre></div>
+<span id="cb32-7"><a href="#cb32-7" aria-hidden="true" tabindex="-1"></a>  <span class="fu">scale_color_manual</span>(<span class="at">values =</span> colors.methods)<span class="sc">+</span><span class="fu">xlab</span>(<span class="st">"p-values"</span>)<span class="sc">+</span></span>
+<span id="cb32-8"><a href="#cb32-8" aria-hidden="true" tabindex="-1"></a>  <span class="fu">theme_bw</span>()<span class="sc">+</span> <span class="fu">theme</span>(<span class="at">legend.position=</span><span class="st">"right"</span>)</span></code><button title="Copy to Clipboard" class="code-copy-button"><i class="bi"></i></button></pre></div>
 <div class="cell-output-display">
 <p><img src="generalCoexAssess_files/figure-html/unnamed-chunk-22-1.png" class="img-fluid" width="672"></p>
 </div>
@@ -918,7 +920,7 @@ pre > code.sourceCode > span > a:first-child::before { text-decoration: underlin
 <div class="cell">
 <div class="sourceCode cell-code" id="cb33"><pre class="sourceCode r code-with-copy"><code class="sourceCode r"><span id="cb33-1"><a href="#cb33-1" aria-hidden="true" tabindex="-1"></a><span class="fu">Sys.time</span>()</span></code><button title="Copy to Clipboard" class="code-copy-button"><i class="bi"></i></button></pre></div>
 <div class="cell-output cell-output-stdout">
-<pre><code>[1] "2024-03-17 19:40:59 CET"</code></pre>
+<pre><code>[1] "2024-03-22 17:29:02 CET"</code></pre>
 </div>
 </div>
 <div class="cell">
@@ -953,7 +955,7 @@ loaded via a namespace (and not attached):
  [1] utf8_1.2.3             generics_0.1.3         stringi_1.8.1         
  [4] lattice_0.22-5         digest_0.6.33          magrittr_2.0.3        
  [7] correlation_0.8.4      evaluate_0.21          grid_4.3.2            
-[10] estimability_1.4.1     mvtnorm_1.2-2          fastmap_1.1.1         
+[10] estimability_1.5       mvtnorm_1.2-2          fastmap_1.1.1         
 [13] jsonlite_1.8.7         rematch2_2.1.2         purrr_1.0.1           
 [16] fansi_1.0.4            cli_3.6.1              rlang_1.1.1           
 [19] munsell_0.5.0          withr_3.0.0            yaml_2.3.7            
